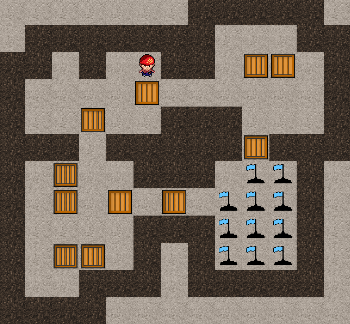
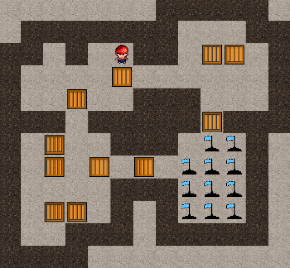
taille img + nouvelles img pour génération & tp (#31)
* taille img + nouvelles img pour génération & tp

* Changement à cause de la gen

* un peu de tout 

Honnêtement j'ai modifié la javadoc partout donc je savais plus
mais sinon : Ajout de l'img du tp et ajouts de la javadoc de certains fichier manquant

* Ajout random Selector

* Changement fichier .bat

* Add files via upload

diff --git a/src/main/java/model/NewGenerator.java b/src/main/java/model/NewGenerator.java
@@ -8,7 +8,7 @@ import java.util.ArrayList;
 
 /**
  * The <code>Generator</code> class is a class using static methods that will define a random position on a squared map
- * for a given amount of boxes & objectives. Boxes can start on objectives. For further details : after testing
+ * for a given amount of boxes and objectives. Boxes can start on objectives. For further details : after testing
  * 1.000.000.000 random generations on a 10x10 map with 3 boxes and 3 objectives, there wasn't a single generation
  * that happened to have all three boxes on an objective, so we can consider that an already finished map will never
  * be generated.
@@ -56,66 +56,6 @@ public class NewGenerator {
         return (int) (Math.random() * (max - min + 1) + min);
     }
 
-    /*
-    public static void generate() {
-        // generate boxes
-        for (int i = 0; i < boxesCount; i++) {
-            boolean correctPosition = false;
-            do {
-                randomX = randomIntGenerator(0, mapLength - 1);
-                randomY = randomIntGenerator(0, mapHeight - 1);
-                for (int j = 0; j < boxes.size(); j++) {
-                    if ((randomX != boxes.get(j).getX() || randomY != boxes.get(j).getY()) && mappedCanBeBox[randomY][randomX]) {
-                        correctPosition = true;
-                    }
-                }
-            } while (!correctPosition);
-            boxes.add(new Position(randomX, randomY));
-        }
-
-        // generator objectives
-        for (int i = 0; i < boxesCount; i++) {
-            boolean isOnObj = false;
-            boolean correctPosition = false;
-            do {
-                randomX = randomIntGenerator(0, mapLength-1);
-                randomY = randomIntGenerator(0, mapHeight-1);
-                for (int j = 0; j < boxesCount; j++) {
-                    if (randomX == boxes.get(j).getX() && randomY == boxes.get(j).getY()) {
-                        isOnObj = true;
-                    }
-                    if (j < boxes.size()) {
-                        if ((randomX != goals.get(j).getX() || randomY != goals.get(j).getY()) && mappedCanBeGoal[randomY][randomX]) {
-                            correctPosition = true;
-                        }
-                    }
-                }
-            } while (!correctPosition);
-            boxesCount -= boxesOnObj.size();
-            if (isOnObj) {
-                boxesOnObj.add(new Position(randomX, randomY));
-            } else {
-                goals.add(new Position(randomX, randomY));
-            }
-        }
-
-        // generate player
-        boolean correctLocation = false;
-        boolean isOnGoal = false;
-        do {
-            randomX = randomIntGenerator(0, mapLength-1);
-            randomY = randomIntGenerator(0, mapHeight-1);
-            for (int j = 0; j < boxesCount; j++) {
-                if (boxes.get(j).getX() != randomX || boxes.get(j).getY() != randomY) {
-                    correctLocation = true;
-                } else if (goals.get(j).getX() == randomX && goals.get(j).getY() == randomY) {
-                    isOnGoal = true;
-                }
-            }
-        } while (!correctLocation);
-        player = new Player(randomIntGenerator(1, 8), randomIntGenerator(1, 8), "player down.png", "@", isOnGoal);
-    }
-     */
 
     public static void generate() {
         // generate objectives

diff --git a/src/main/java/view/RandomSelector.java b/src/main/java/view/RandomSelector.java
@@ -1,25 +1,53 @@
 package view;
 
 import javafx.scene.Parent;
+import javafx.scene.input.MouseEvent;
+import model.Difficulty;
 import model.NewGenerator;
+import org.checkerframework.checker.units.qual.C;
 import org.json.simple.parser.ParseException;
 
 import java.io.IOException;
-import java.util.ArrayList;
 
 public class RandomSelector extends LevelSelector{
 
-    private ArrayList<String> selectedLevel;
+    private Difficulty selectedDifficulty;
     public RandomSelector(Parent parent_, double width_, double height_, float WR, float HR)
             throws IOException, ParseException {
         super(parent_, width_, height_, WR, HR);
     }
 
     @Override
+    public void setSelectors() throws IOException, ParseException{
+        super.setSelectors();
+
+        CustomButton easyButton = new CustomButton(600,100,WR, HR,"easy button.png");
+        applyDifficulty(easyButton, Difficulty.EASY);
+
+        CustomButton normalButton = new CustomButton(600,400,WR, HR,"normal button.png");
+        applyDifficulty(normalButton, Difficulty.NORMAL);
+
+        CustomButton hardButton = new CustomButton(600,700,WR, HR,"hard button.png");
+        applyDifficulty(hardButton, Difficulty.HARD);
+
+        middleMenu.getChildren().addAll(easyButton,easyButton.overlay, normalButton, normalButton.overlay,
+                hardButton, hardButton.overlay);
+        this.playButton.setVisible(true);
+    }
+
+
+
+    private void applyDifficulty(CustomButton button, Difficulty difficulty){
+        button.overlay.addEventHandler(MouseEvent.MOUSE_CLICKED, e-> {
+            selectedDifficulty = difficulty;
+        });
+    }
+
+    @Override
     public Object getSelectedLevel(){
+        System.out.println(selectedDifficulty);
         NewGenerator.generate();
         NewGenerator.setContentBasedOnCurrentGeneration();
-        selectedLevel = NewGenerator.getContent();
-        return selectedLevel;
+        return NewGenerator.getContent();
     }
 }

diff --git a/src/main/java/model/Teleport.java b/src/main/java/model/Teleport.java
@@ -1,13 +1,19 @@
 package model;
 
+/**
+ * <code>Teleport</code> is a <code>Block</code> used to teleport the player to the second Teleporter.
+ * There can only be 2 Teleporters on the map. If the player walks into one, he goes to the second one.
+ * Each Teleport has an attribute with the instance of the other Teleport.
+ */
 public class Teleport extends Block{
     private Teleport nextTP;
     /**
-     * <code>Wall</code> Constructor
-     * @param x_ The row of the <code>Wall</code> in the blockList
-     * @param y_ The line of the <code>Wall</code> in the blockList
-     * @param image The name of the image of the <code>Wall</code>
-     * @param texture The texture of the wall (Texture : #)
+     * <code>Teleport</code> Constructor
+     * @param x_ The row of the <code>Teleport</code> in the blockList
+     * @param y_ The line of the <code>Teleport</code> in the blockList
+     * @param image The name of the image of the <code>Teleport</code>
+     * @param texture The texture of the Teleport (Texture : %)
+     * @param nextTP The instance of the other Teleport
      */
     public Teleport(int x_, int y_,String image,String texture,Teleport nextTP) {
         super(x_, y_,image, texture);
@@ -48,10 +54,18 @@ public class Teleport extends Block{
     }
 
 
+    /**
+     * nextTP accessor
+     * @return The instance of the Teleport linked to this Teleport
+     */
     public Teleport getNextTP(){
         return nextTP;
     }
 
+    /**
+     * Change the value of the Teleport attribute
+     * @param nextTP The instance of the other Teleport
+     */
     public void setNextTP(Teleport nextTP){
         this.nextTP = nextTP;
     }

diff --git a/src/main/java/view/LevelSelector.java b/src/main/java/view/LevelSelector.java
@@ -55,7 +55,8 @@ public abstract class LevelSelector
 
         //Used to show the map when the mouse is over a button.
         this.levelViewer = new Pane();
-        this.levelViewer.setLayoutY(350*HR);
+        this.levelViewer.setLayoutX(30*WR);
+        this.levelViewer.setLayoutY(400*HR);
         this.levelViewer.setMaxWidth(350*WR);
 
         //Used to show the level we have selected.
@@ -124,7 +125,7 @@ public abstract class LevelSelector
     public void setSelectors() throws IOException, ParseException {
         middleMenu.getChildren().removeAll(middleMenu.getChildren());
         this.middleMenuBackground = new CustomButton(0, 0, WR, HR, "background empty.png");
-        this.middleMenu.getChildren().add(this.middleMenuBackground);
+        this.middleMenu.getChildren().add(middleMenuBackground);
         middleMenu.getChildren().addAll(resumeButton, resumeButton.overlay,
                 playButton, playButton.overlay,
                 backButton, backButton.overlay);

diff --git a/src/main/java/view/MainMenu.java b/src/main/java/view/MainMenu.java
@@ -46,6 +46,8 @@ public class MainMenu
      * @param HR_ The height ratio that will be used to resize the components
      * @param window_ The window containing everything
      * @param background_ The background that will be displayed for the menu
+     * @throws IOException Exception thrown when any provided file could not be found
+     * @throws ParseException Exception thrown when a file could not be parsed
      */
     public MainMenu(Parent parent_, double width_, double height_, float WR_, float HR_, Stage window_, CustomImage background_)
             throws IOException, ParseException {
@@ -253,8 +255,8 @@ public class MainMenu
     }
 
     /**
-     * Return the "Random" button used to switch to the <code></code>
-     * @return
+     * Return the "Random" button used to switch to the <code>RandomSelector</code>
+     * @return The generation button
      */
     public CustomButton getRandomButton(){
         return randomButton;

diff --git a/src/main/java/model/Board.java b/src/main/java/model/Board.java
@@ -88,11 +88,11 @@ public class Board {
                         break;
                     case '%':
                         if (tmpTeleport == null){
-                            tmpTeleport = new Teleport(x,y,"box.png","%",null);
+                            tmpTeleport = new Teleport(x,y,"Teleport2.png","%",null);
                         } else if (tmpTeleport.getNextTP() != null){
                             throw new IllegalArgumentException("There can only be 2 Teleports in the map !");
                         } else {
-                            Teleport tp = new Teleport(x,y, "box.png", "%",tmpTeleport);
+                            Teleport tp = new Teleport(x,y, "Teleport2.png", "%",tmpTeleport);
                             world.add(tp);
                             tmpTeleport.setNextTP(tp);
                             world.add(tmpTeleport);

diff --git a/src/main/java/presenter/Main.java b/src/main/java/presenter/Main.java
@@ -312,10 +312,14 @@ public class Main extends Application {
 
             mainMenu.getRandomButton().overlay.addEventHandler(MouseEvent.MOUSE_CLICKED, e -> {
                 if (e.getButton() == MouseButton.PRIMARY) {
-                    window.setScene(randomMenu);
-                    window.setFullScreen(fullscreen);
-                    randomMenu.getPlayButton().setVisible(true);
-
+                    try {
+                        randomMenu.setSelectors();
+                        window.setScene(randomMenu);
+                        window.setFullScreen(fullscreen);
+                    } catch (IOException | ParseException e1) {
+                        AlertBox.display("Error", "An error occured while trying to set the levels" +
+                                e1.getMessage());
+                    }
                 }
             });
 

diff --git a/src/main/java/model/Direction.java b/src/main/java/model/Direction.java
@@ -1,12 +1,42 @@
 package model;
 
+/**
+ * The <code>Direction enum</code> is an enum used for the player movements.
+ * 6 types of movements are available :
+ * {@link #UP}
+ * {@link #DOWN}
+ * {@link #RIGHT}
+ * {@link #LEFT}
+ * {@link #RESTART}
+ * {@link #NULL}
+ */
 public enum Direction {
+    /**
+     *UP Direction
+     */
     UP,
+    /**
+     * DOWN Direction
+     */
     DOWN,
+    /**
+     * Right Direction
+     */
     RIGHT,
+    /**
+     * Left Direction
+     */
     LEFT,
+    /**
+     * Restart Direction.
+     * Used when the player wants to restart
+     */
     RESTART,
-    NULL
+    /**
+     * Null Direction.
+     * Used when the player do something else than a move or a restart
+     */
+    NULL,
 
 
 }

diff --git a/src/main/java/model/Goal.java b/src/main/java/model/Goal.java
@@ -13,7 +13,7 @@ public class Goal extends Block {
      * @param x_ The row of the block in the blockList
      * @param y_ The line of the block in the blockList
      * @param image The name of the image of the <code>Goal</code>
-     * @param texture The texture of the <Code>Goal/Code> (Texture : .)
+     * @param texture The texture of the <Code>Goal</Code> (Texture : .)
      */
     public Goal(int x_, int y_, String image,String texture) {
         super(x_, y_,image,texture);

diff --git a/src/main/java/model/Player.java b/src/main/java/model/Player.java
@@ -113,9 +113,18 @@ public class Player extends Block {
         return plate;
     }
 
+    /**
+     * CurrTP accessor
+     * @return The tp the player is currently on
+     */
     public Teleport getCurrTp(){
         return currTP;
     }
+
+    /**
+     * Change the value of the currTP under the player
+     * @param tp The tp the player is on at the moment (null if he isn't on any tp)
+     */
     public void setCurrTP(Teleport tp){
         this.currTP = tp;
     }

diff --git a/src/main/java/model/GhostWall.java b/src/main/java/model/GhostWall.java
@@ -39,7 +39,6 @@ public class GhostWall extends Wall{
      */
     @Override
     public int push(int nextX, int nextY, Block[][] blockList, Player player1, BooleanCouple returnValue, int currBoxOnObj){
-        super.push(nextX, nextY, blockList, player1,returnValue, currBoxOnObj);
         blockList[player1.getY()][player1.getX()] = null;
         blockList[nextY][nextX] = player1;
         player1.setValues(nextX, nextY);

diff --git a/src/main/java/model/Box.java b/src/main/java/model/Box.java
@@ -24,7 +24,7 @@ public class Box extends Block {
     @Override
     public boolean canPass(Block nextObj){
         super.canPass(nextObj);
-        if (nextObj instanceof  Box){
+        if (nextObj instanceof  Box || nextObj instanceof Teleport){
             return false;
         }
         else return nextObj == null || nextObj.canPass(nextObj);
